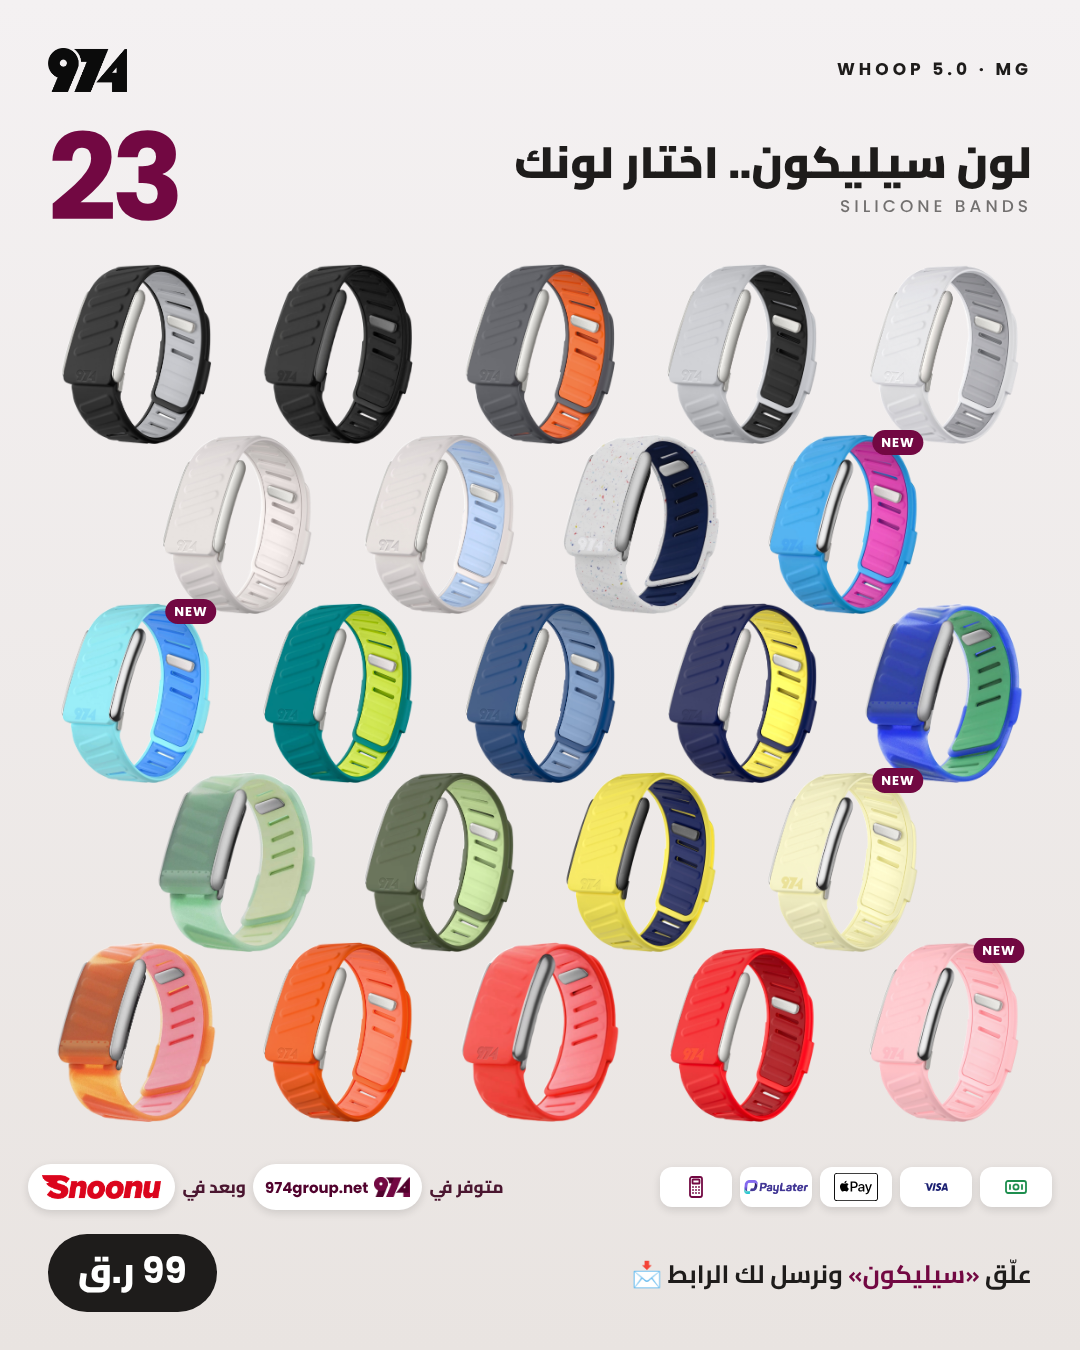
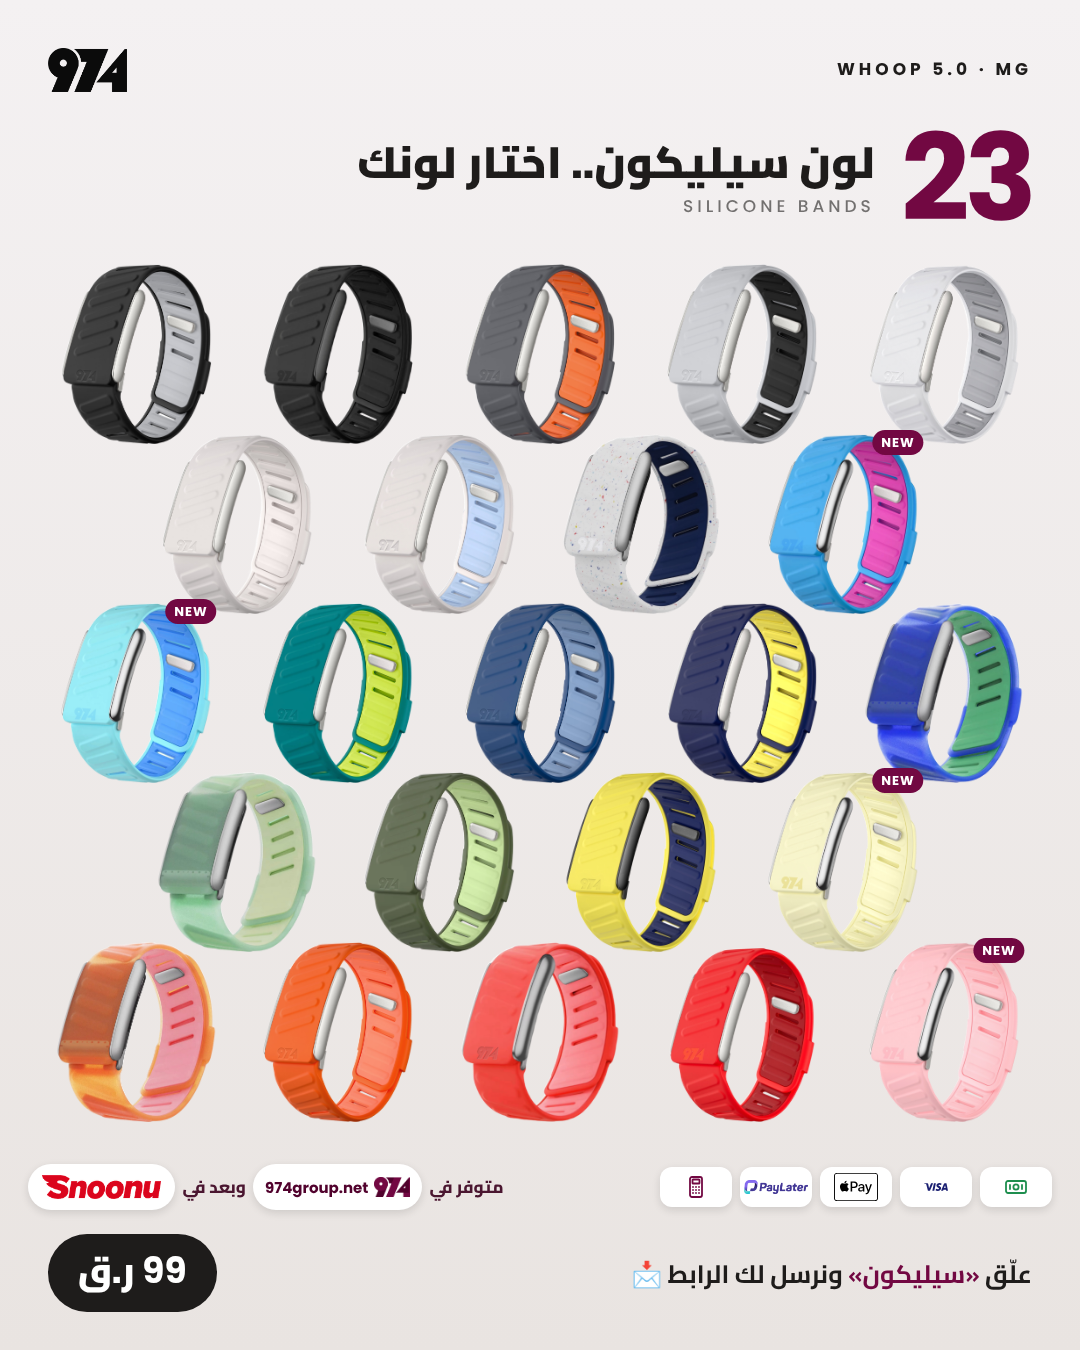
Silicone wall: 23 moved right, reads with the Arabic
Claude-Session: https://claude.ai/code/session_01K6HDWNrArsGSJekW1VcEzV

Changed region(s): [[0.3361, 0.0933, 0.9778, 0.1867], [0.0306, 0.0933, 0.1833, 0.1867]]

diff --git a/posts/2026-11/whoop5-silicone-all/974-w5-silicone-wall-post.html b/posts/2026-11/whoop5-silicone-all/974-w5-silicone-wall-post.html
@@ -8,10 +8,10 @@ body{width:1080px;height:1350px;background:linear-gradient(180deg,#F4F1F2 0%,#E9
 .abs{position:absolute} .en{font-family:Poppins;direction:ltr}
 .b{position:absolute;transform:translate(-50%,-50%)} .b img{height:100%;display:block}
 .nw{position:absolute;right:-6px;top:-4px;background:#720842;color:#fff;font-family:Poppins;font-weight:700;font-size:13px;letter-spacing:1px;border-radius:20px;padding:3px 9px 2px}
-.hd{position:absolute;left:48px;right:48px;top:130px;display:flex;align-items:center;justify-content:space-between}
-.hd b{font-family:Poppins;font-weight:700;font-size:120px;line-height:.8;letter-spacing:-5px;color:#720842}
+.hd{position:absolute;left:48px;right:48px;top:130px;display:flex;align-items:center;justify-content:flex-start;gap:26px;direction:rtl}
+.hd b{direction:ltr;font-family:Poppins;font-weight:700;font-size:120px;line-height:.8;letter-spacing:-5px;color:#720842}
 .hd div{text-align:right;direction:rtl} .hd i{display:block;font-style:normal;font-weight:900;font-size:44px;line-height:1.15}
-.hd em{display:block;font-style:normal;font-family:Poppins;font-weight:500;font-size:17px;letter-spacing:4px;opacity:.6;direction:ltr;margin-top:6px}
+.hd em{display:block;font-style:normal;font-family:Poppins;font-weight:500;font-size:17px;letter-spacing:4px;opacity:.6;margin-top:6px}
 .pf{position:absolute;left:28px;right:28px;bottom:140px}
 
 .payfoot{display:flex;align-items:center;justify-content:space-between;direction:rtl;gap:16px}

diff --git a/posts/2026-11/whoop5-silicone-all/974-w5-silicone-wall-story.html b/posts/2026-11/whoop5-silicone-all/974-w5-silicone-wall-story.html
@@ -8,10 +8,10 @@ body{width:1080px;height:1920px;background:linear-gradient(180deg,#F4F1F2 0%,#E9
 .abs{position:absolute} .en{font-family:Poppins;direction:ltr}
 .b{position:absolute;transform:translate(-50%,-50%)} .b img{height:100%;display:block}
 .nw{position:absolute;right:-6px;top:-4px;background:#720842;color:#fff;font-family:Poppins;font-weight:700;font-size:15px;letter-spacing:1px;border-radius:20px;padding:3px 9px 2px}
-.hd{position:absolute;left:48px;right:48px;top:300px;display:flex;align-items:center;justify-content:space-between}
-.hd b{font-family:Poppins;font-weight:700;font-size:150px;line-height:.8;letter-spacing:-5px;color:#720842}
+.hd{position:absolute;left:48px;right:48px;top:300px;display:flex;align-items:center;justify-content:flex-start;gap:30px;direction:rtl}
+.hd b{direction:ltr;font-family:Poppins;font-weight:700;font-size:150px;line-height:.8;letter-spacing:-5px;color:#720842}
 .hd div{text-align:right;direction:rtl} .hd i{display:block;font-style:normal;font-weight:900;font-size:50px;line-height:1.15}
-.hd em{display:block;font-style:normal;font-family:Poppins;font-weight:500;font-size:19px;letter-spacing:4px;opacity:.6;direction:ltr;margin-top:6px}
+.hd em{display:block;font-style:normal;font-family:Poppins;font-weight:500;font-size:19px;letter-spacing:4px;opacity:.6;margin-top:6px}
 .pf{position:absolute;left:28px;right:28px;bottom:240px}
 
 .payfoot{display:flex;align-items:center;justify-content:space-between;direction:rtl;gap:17px}

diff --git a/posts/2026-11/whoop5-silicone-all/gen_b.py b/posts/2026-11/whoop5-silicone-all/gen_b.py
@@ -24,10 +24,10 @@ body{{width:{W}px;height:{H}px;background:linear-gradient(180deg,#F4F1F2 0%,#E9E
 .abs{{position:absolute}} .en{{font-family:Poppins;direction:ltr}}
 .b{{position:absolute;transform:translate(-50%,-50%)}} .b img{{height:100%;display:block}}
 .nw{{position:absolute;right:-6px;top:-4px;background:#720842;color:#fff;font-family:Poppins;font-weight:700;font-size:{15 if story else 13}px;letter-spacing:1px;border-radius:20px;padding:3px 9px 2px}}
-.hd{{position:absolute;left:48px;right:48px;top:{ht}px;display:flex;align-items:center;justify-content:space-between}}
-.hd b{{font-family:Poppins;font-weight:700;font-size:{150 if story else 120}px;line-height:.8;letter-spacing:-5px;color:#720842}}
+.hd{{position:absolute;left:48px;right:48px;top:{ht}px;display:flex;align-items:center;justify-content:flex-start;gap:{30 if story else 26}px;direction:rtl}}
+.hd b{{direction:ltr;font-family:Poppins;font-weight:700;font-size:{150 if story else 120}px;line-height:.8;letter-spacing:-5px;color:#720842}}
 .hd div{{text-align:right;direction:rtl}} .hd i{{display:block;font-style:normal;font-weight:900;font-size:{50 if story else 44}px;line-height:1.15}}
-.hd em{{display:block;font-style:normal;font-family:Poppins;font-weight:500;font-size:{19 if story else 17}px;letter-spacing:4px;opacity:.6;direction:ltr;margin-top:6px}}
+.hd em{{display:block;font-style:normal;font-family:Poppins;font-weight:500;font-size:{19 if story else 17}px;letter-spacing:4px;opacity:.6;margin-top:6px}}
 .pf{{position:absolute;left:28px;right:28px;bottom:{pf}px}}
 {payfoot.css(1.0 if not story else 1.12)}
 .foot{{position:absolute;left:48px;right:48px;bottom:{fb}px;display:flex;justify-content:space-between;align-items:center;direction:rtl}}
